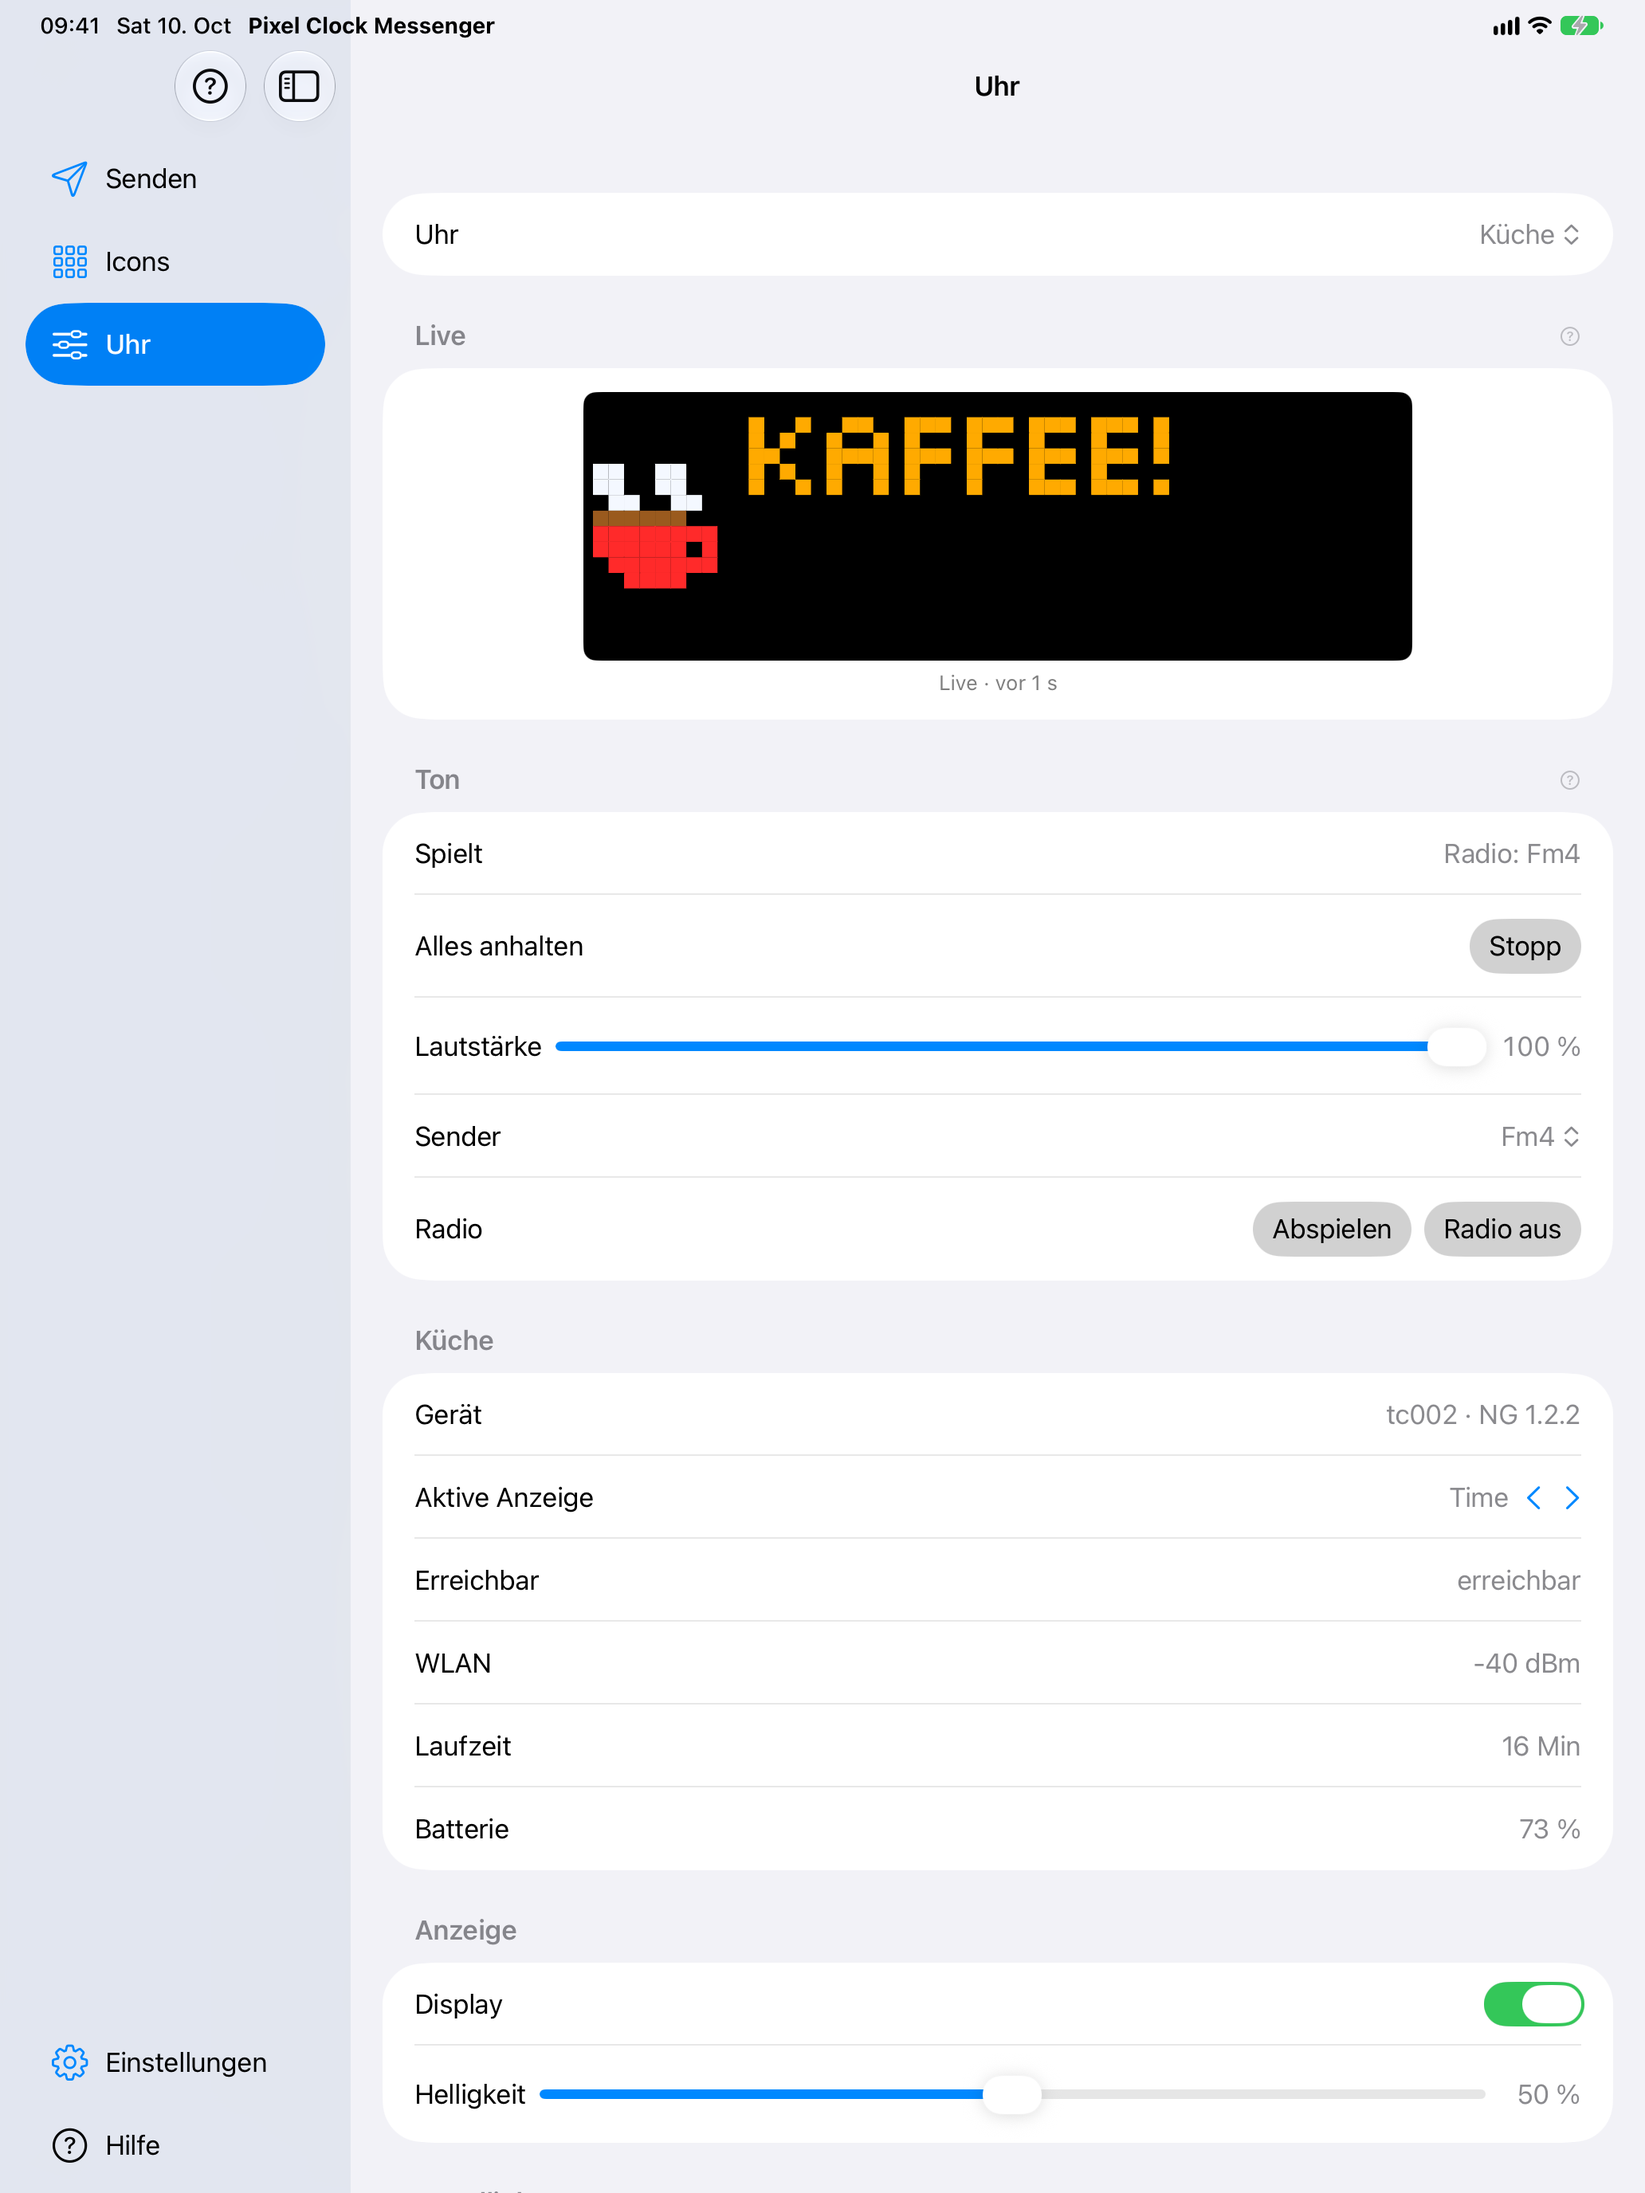
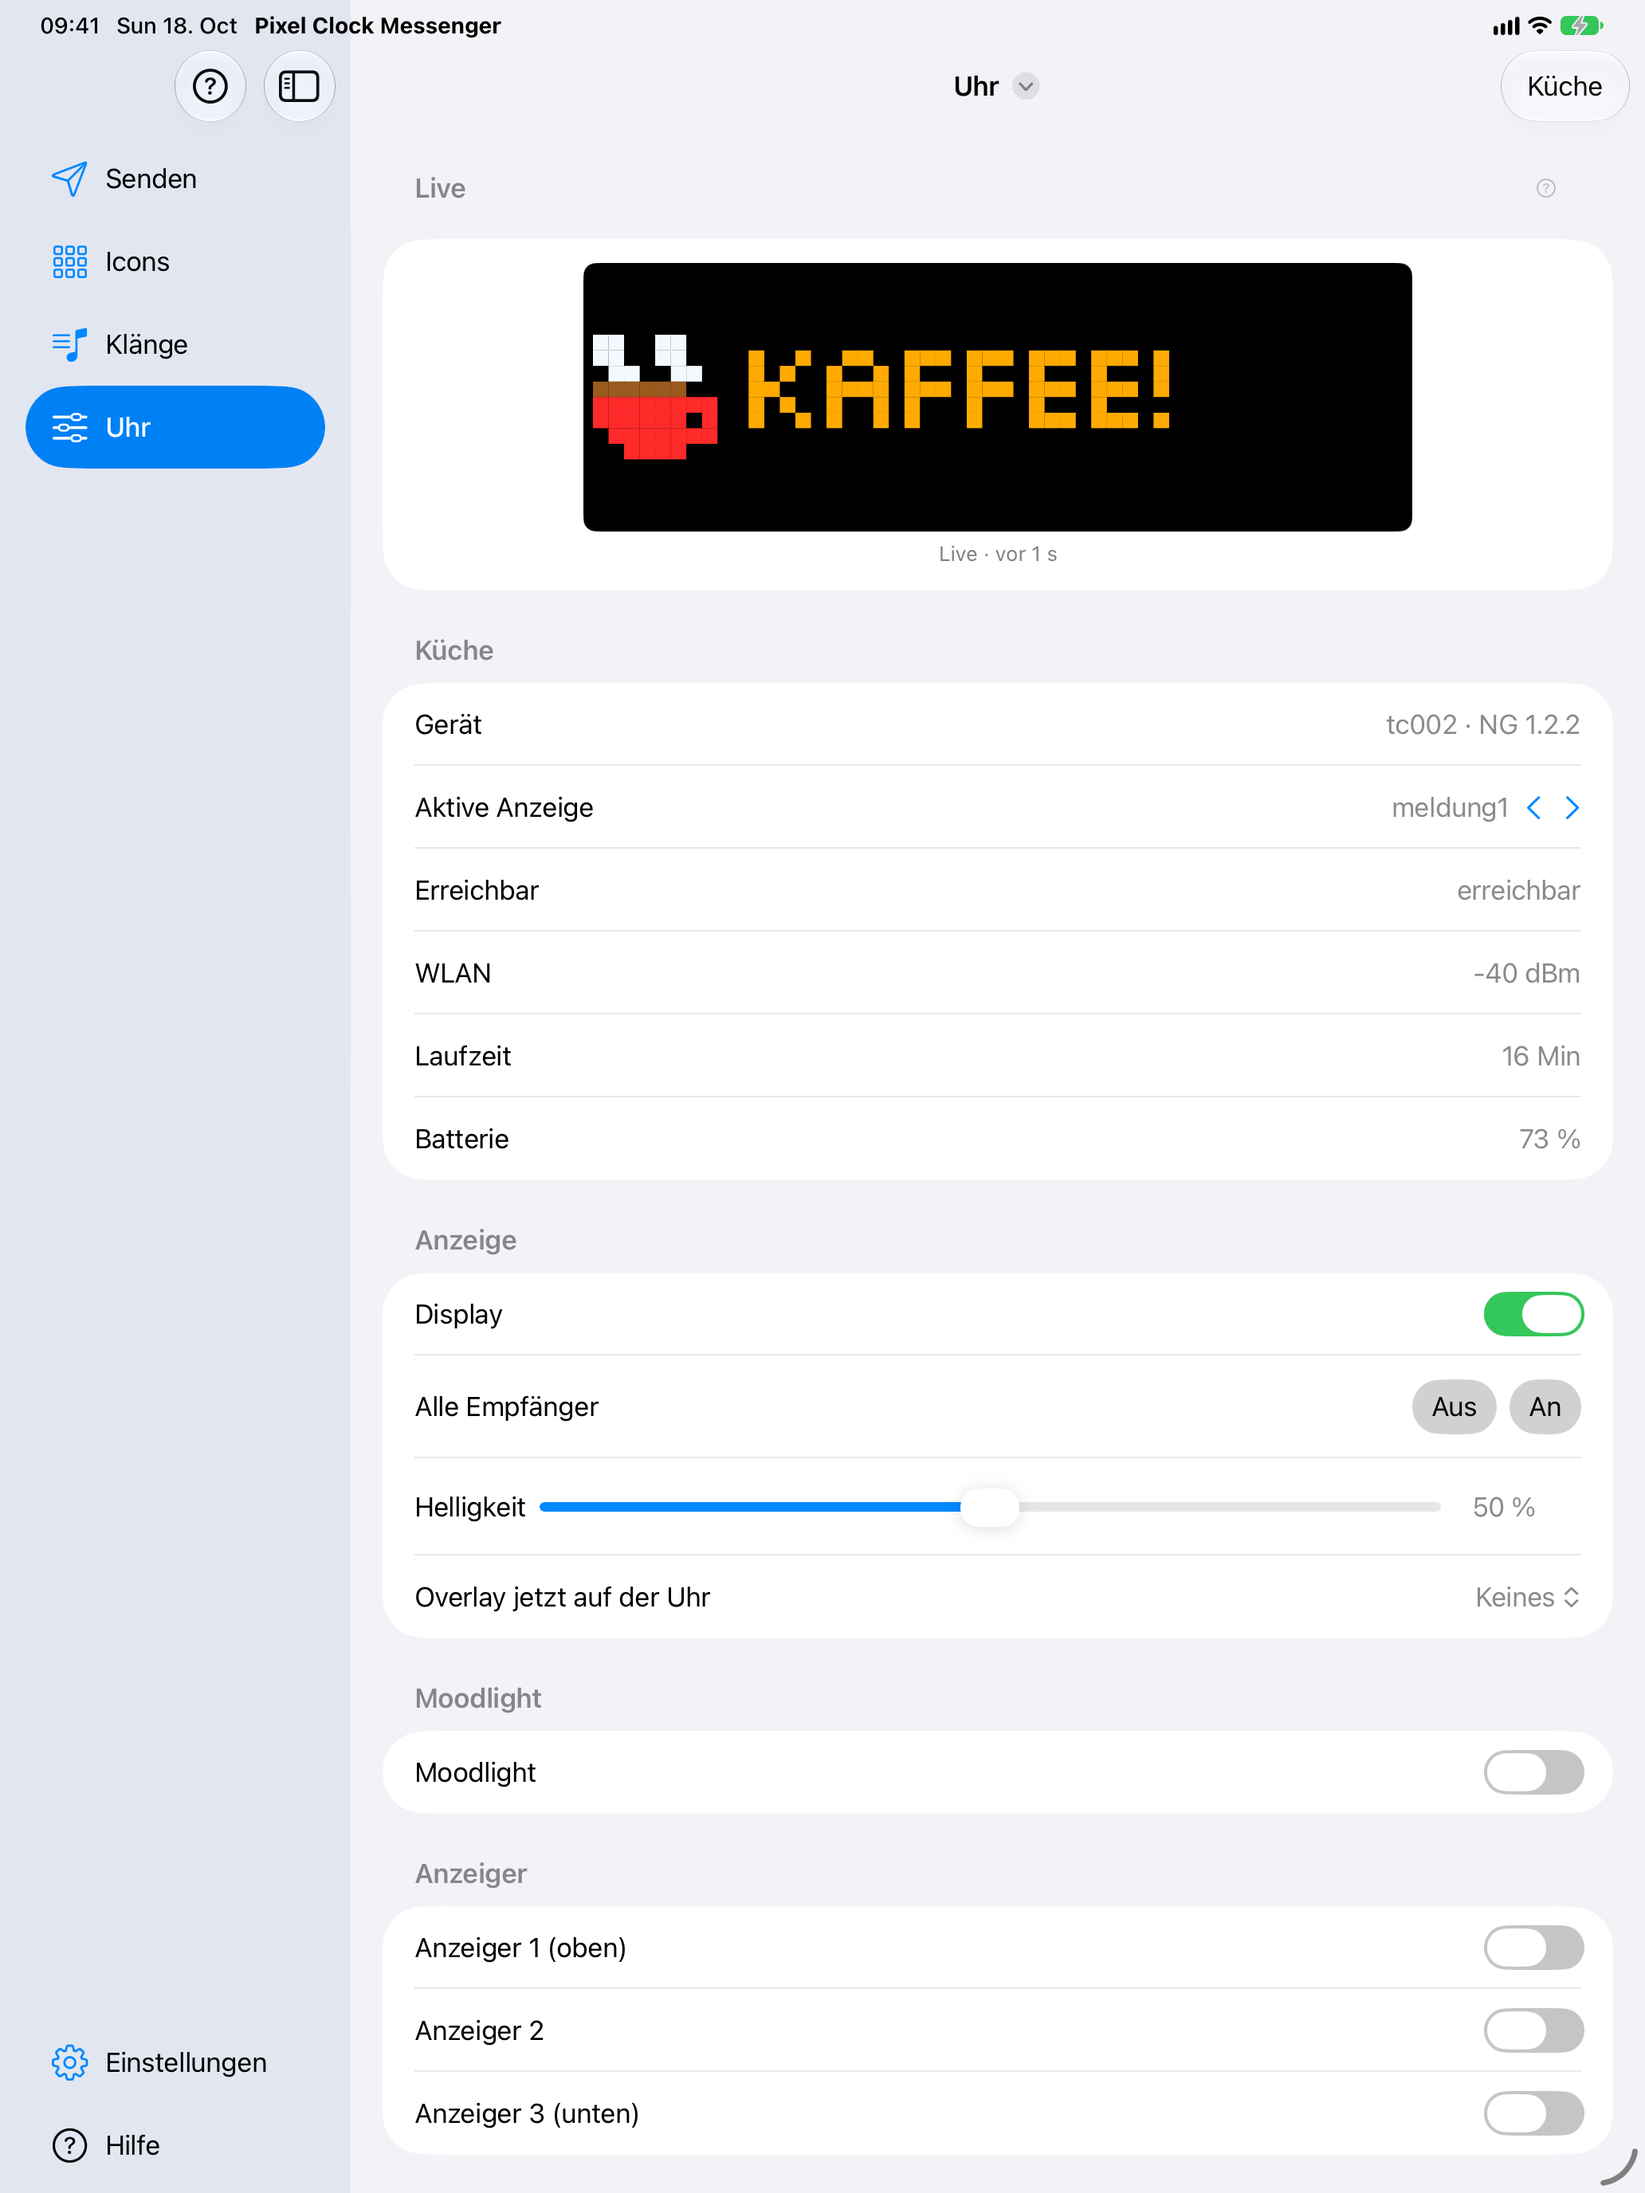
App-Store-Bilder neu aufgenommen: Oberfläche mit Bereich „Uhr“, Klänge, „Steht …“, Lebensdauer (iPhone 5, iPad 4, DE und EN)
Simulator mit der virtuellen Uhr, erfundene Daten (Küche/Kitchen, Wohnzimmer/Living room,
mqtt.example.org), Statusleiste 9:41, PNG RGB ohne Alpha. Die Aufnahmehilfen
(// SCHAUBILD) sind nicht eingecheckt. docs/AppStore/README.md beschreibt die Bilder neu.

Claude-Session: https://claude.ai/code/session_01NDmyXotToASpsnzjzuAUoX

diff --git a/docs/AppStore/README.md b/docs/AppStore/README.md
@@ -15,11 +15,14 @@ Deutsch für die deutsche, Englisch für die englische Lokalisierung. Reihenfolg
 
 | iPhone | iPad |
 |---|---|
-| `01-senden` Senden mit 52×16-Vorschau, Plätze belegt | `01-senden` Senden mit Inspektor |
-| `02-darstellung` Formatblatt Darstellung (Schrift der Uhr, Effekt, Palette) | `02-darstellung` Inspektor-Reiter Darstellung |
-| `03-klang` Nachricht mit Klang (Formatblatt) | `03-steuerung` Fernbedienung mit Live-Bild, Ton, Radio |
-| `04-steuerung` Fernbedienung mit Live-Bild, Ton, Radio | `04-icons` Icons (Sammlung) |
-| `05-icons` Icons (Sammlung) | |
+| `01-senden` Senden mit 52×16-Vorschau, fünf Plätze belegt, Segment „Anzeige \| Nachricht“ mit Lebensdauer | `01-senden` Senden mit Inspektor (Reiter Format) |
+| `02-darstellung` Blatt „Darstellung“ (Hintergrund, Effekt, Overlay, Palette) | `02-darstellung` Inspektor-Reiter Darstellung |
+| `03-klang` Nachricht: Blatt „Klang“ (Melodie von der Uhr, 1× \| In Schleife) | `03-steuerung` Bereich „Uhr“ (Live-Bild, Gerät, Anzeige, Moodlight, Anzeiger) |
+| `04-steuerung` Blatt „Uhr“ (Live-Bild, Gerät, Anzeige) | `04-icons` Icons (Sammlung) |
+| `05-icons` Icons (Sammlung) mit Nummer unter dem Namen | |
+
+Der Dateiname `…-steuerung` ist geblieben, auch wenn der Bereich jetzt „Uhr“ heißt (die Banner und Verweise hängen daran).
+Zeitangaben im Verlauf zeigen die Aufnahmezeit; in „Uhr“ steht als aktive Anzeige der Platzname `meldung1`, so heißt der Platz auf dem Gerät.
 
 Die Banner entstehen aus `~/GitSwift/Marketing/appstore/banner-mqtt.html` per `render-mqtt.sh` (verwenden die
 iPhone-Screenshots `01-senden` und `02-darstellung`).
